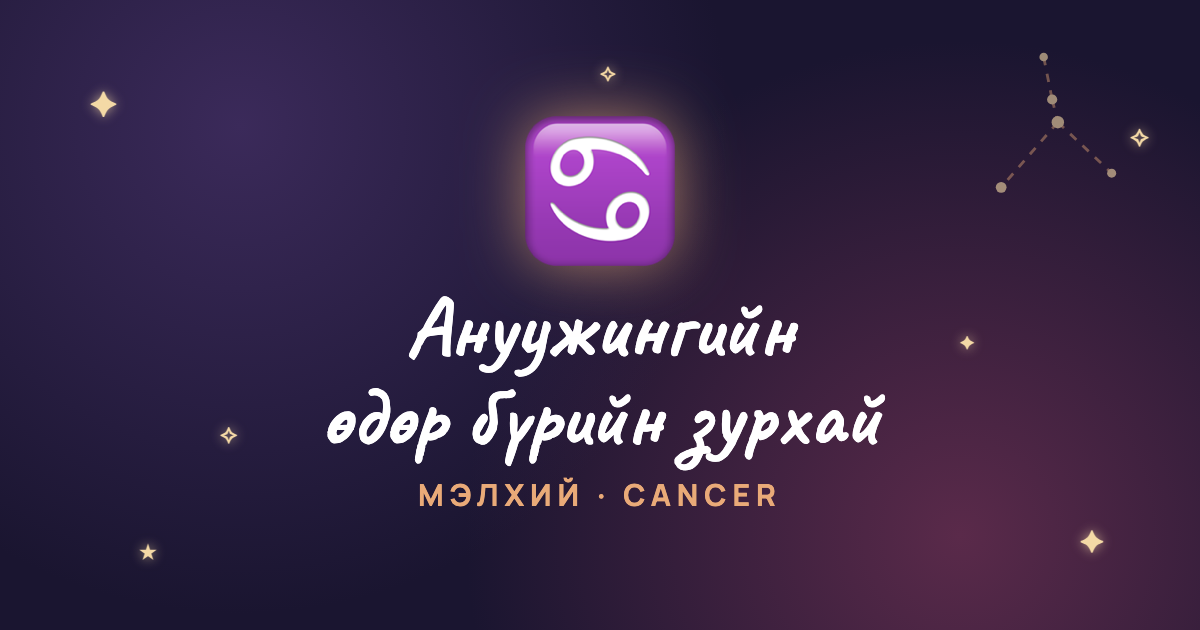
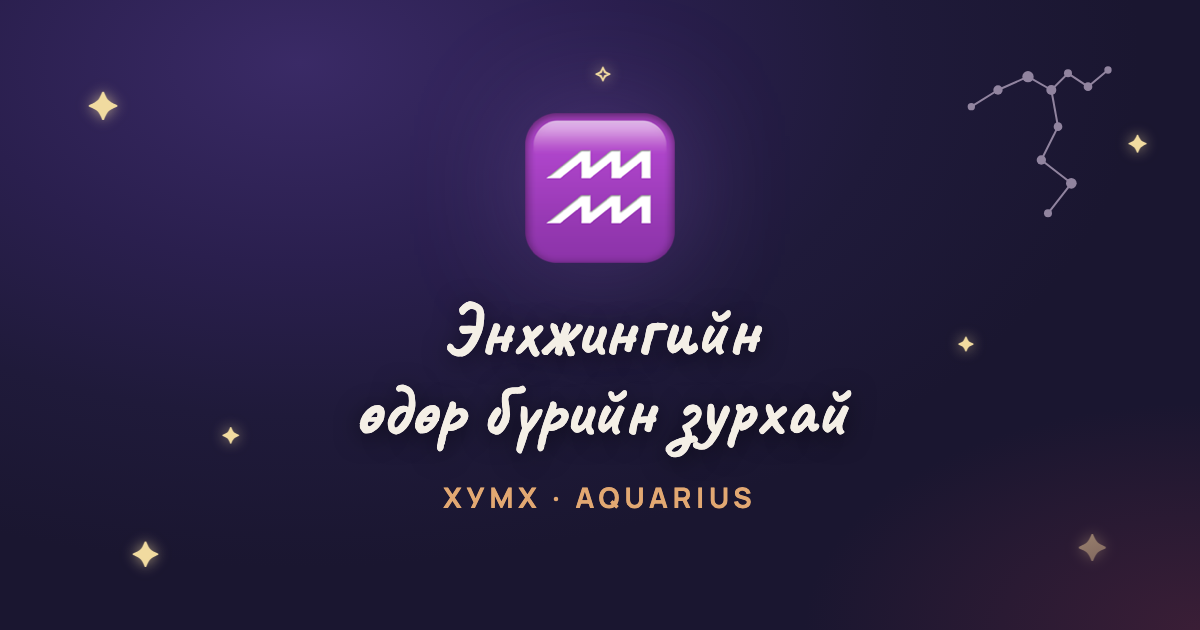
Линкний урьдчилсан зургийг Энхжин, Хумхын ордоор шинэчлэв

diff --git a/index.html b/index.html
@@ -15,7 +15,7 @@
     <meta property="og:type" content="website" />
     <meta property="og:title" content="Энхжингийн өдөр бүрийн зурхай ♒" />
     <meta property="og:description" content="Хумхын ордны өдөр бүрийн зурхай, өдөр бүр шинэчлэгдэнэ" />
-    <meta property="og:image" content="https://battulgamulen-png.github.io/enkhjin-card/zurhai-preview.png" />
+    <meta property="og:image" content="https://battulgamulen-png.github.io/enkhjin-card/zurhai-preview.png?v=2" />
     <meta property="og:image:width" content="1200" />
     <meta property="og:image:height" content="630" />
     <meta property="og:url" content="https://battulgamulen-png.github.io/enkhjin-card/" />
